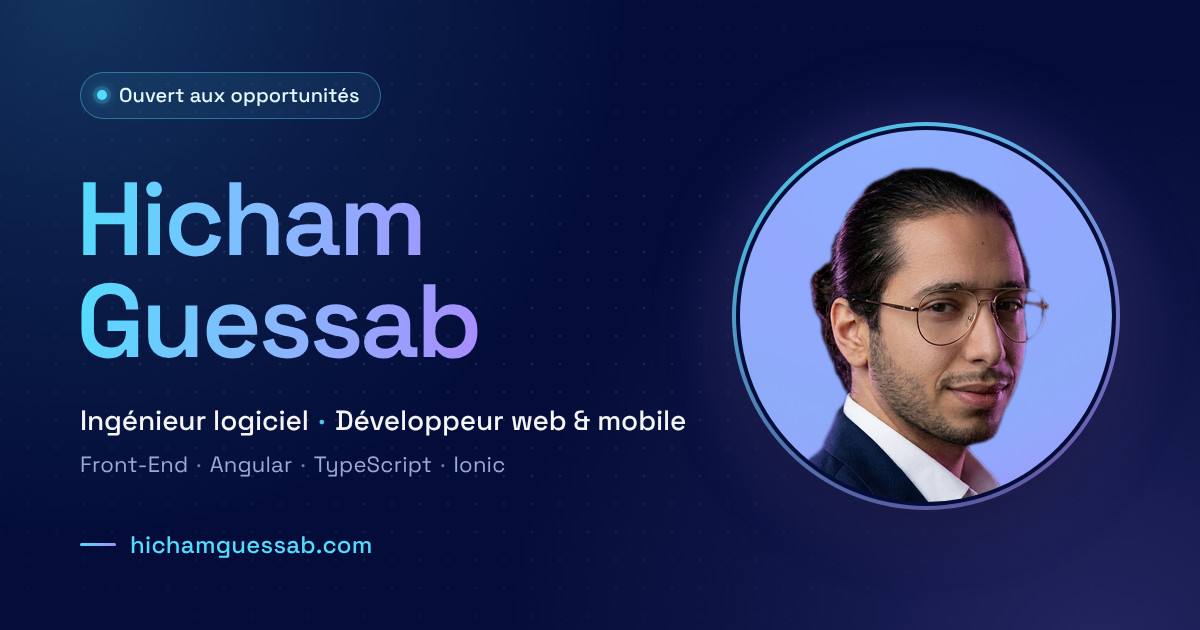
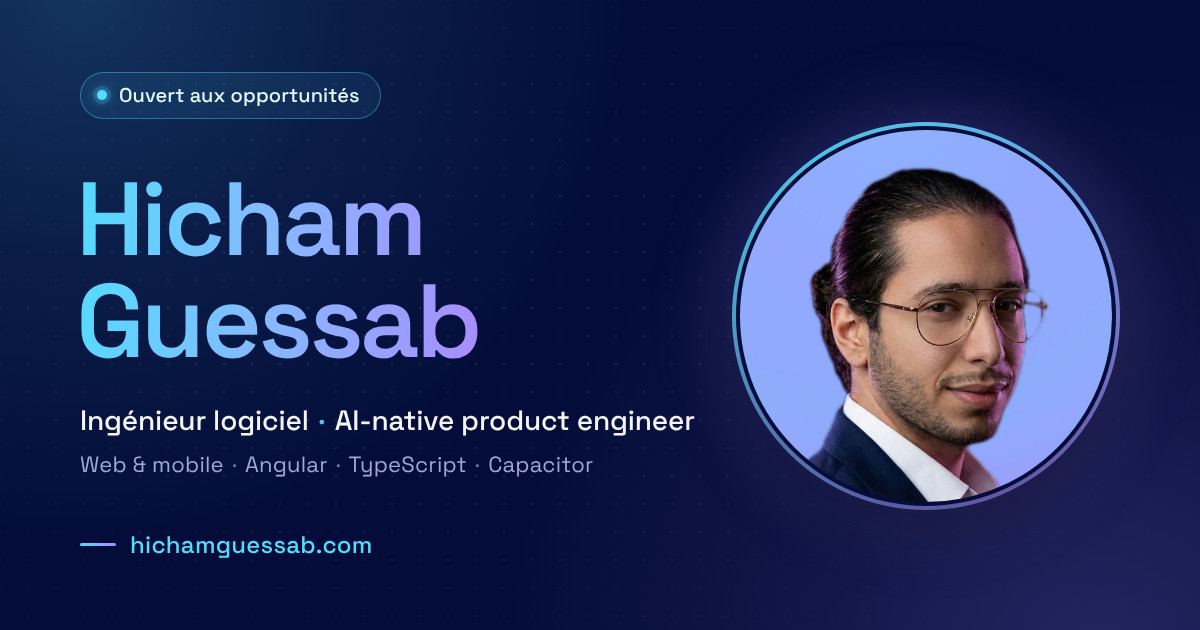
feat(profil): present the AI-native product engineer positioning
Les titres sous le nom deviennent « Ingénieur logiciel » et « AI-native
product engineer », chacun suivi de sa définition (liste de
définitions), à la place de l'accroche « Spécialisé Front-End… » :
- Ingénieur logiciel : concevoir et maintenir des applications web et
  mobile robustes, avec Angular et TypeScript ;
- AI-native product engineer : penser produit autant que code, avec l'IA
  au cœur de la façon de travailler, de l'idée à la mise en production.

- héros : titres définis empilés, retours à la ligne équilibrés ; rythme
  resserré (actions, chiffres clés) pour garder les chiffres au-dessus
  de la ligne de flottaison en 1366 × 768.
- mode compact : les deux titres côte à côte sous la photo, chacun avec
  sa définition.
- pied de page, <title>, description, Open Graph, JSON-LD (jobTitle en
  tableau) et manifeste alignés.
- carte de partage : sous-titre et ligne de stack mis à jour ; og.html
  reproduit désormais le cadrage serré du portrait (object-view-box) et
  la carte est régénérée depuis la source.

Claude-Session: https://claude.ai/code/session_01JhnqgDeprVQXKRMAVUT24v

diff --git a/src/app/components/profile-section/profile-section.component.html b/src/app/components/profile-section/profile-section.component.html
@@ -1,7 +1,10 @@
 @if (layout() === 'compact') {
   <!-- Layout compact « pont de commandement » : photo dans un liseré dégradé,
-       pile serrée des titres à sa droite, accroche intégrale dessous.
-       Le reveal est porté par la cellule du pont, pas par ce contenu. -->
+       salutation et nom à sa droite, puis les deux titres côte à côte,
+       chacun avec sa définition — resserrés sous xl, où les colonnes
+       étroites passent les définitions sur trois lignes (les tuiles
+       projets gardent leur hauteur). Le reveal est porté par la cellule
+       du pont, pas par ce contenu. -->
   <div class="flex min-h-0 flex-col gap-3 2xl:gap-4">
     <div class="flex items-center gap-4 2xl:gap-5">
       <div
@@ -10,7 +13,7 @@
         <app-portrait
           sizes="96px"
           [imgClass]="
-            'h-20 w-20 rounded-xl object-cover transition-all duration-500 2xl:h-24 2xl:w-24' +
+            'h-16 w-16 rounded-xl object-cover transition-all duration-500 xl:h-20 xl:w-20 2xl:h-24 2xl:w-24' +
             (imageLoaded() ? '' : ' blur-md')
           "
           (loaded)="imageLoaded.set(true)"
@@ -23,19 +26,32 @@
         >
           {{ profile.name }}
         </h1>
-        <p class="font-display text-base 2xl:text-lg">{{ profile.role }}</p>
       </div>
     </div>
     <!-- La ponctuation doit rester collée aux <strong> : pas de reformatage. -->
-    <!-- prettier-ignore -->
-    <p class="max-w-prose text-[13px] leading-relaxed font-light text-white/85 2xl:text-sm">
-      Spécialisé <strong class="text-gradient">Front-End</strong>, je conçois et
-      maintiens des applications web et mobile avec Angular et TypeScript.
-      J’ai contribué à des <strong class="text-gradient">SaaS</strong> comme à
-      des sites vitrines, et je reste
-      <strong class="text-gradient">touche-à-tout</strong>&nbsp;: je m’adapte
-      vite à de nouvelles technologies.
-    </p>
+    <dl class="grid gap-x-6 gap-y-2 sm:grid-cols-2">
+      <div>
+        <dt class="font-display text-base text-wildSand 2xl:text-lg">
+          {{ profile.role }}
+        </dt>
+        <!-- prettier-ignore -->
+        <dd class="mt-0.5 text-[12px] leading-snug font-light text-white/85 xl:text-[13px] xl:leading-relaxed 2xl:text-sm">
+          Je conçois et maintiens des applications web et mobile robustes, avec
+          Angular et TypeScript.
+        </dd>
+      </div>
+      <div>
+        <dt class="font-display text-base text-wildSand 2xl:text-lg">
+          {{ profile.specialty }}
+        </dt>
+        <!-- prettier-ignore -->
+        <dd class="mt-0.5 text-[12px] leading-snug font-light text-white/85 xl:text-[13px] xl:leading-relaxed 2xl:text-sm">
+          Je pense <strong class="text-gradient">produit</strong> autant que
+          code, avec l’<strong class="text-gradient">IA</strong> au cœur de ma
+          façon de travailler, de l’idée à la mise en production.
+        </dd>
+      </div>
+    </dl>
   </div>
 } @else {
   <section
@@ -47,7 +63,7 @@
     <div
       class="mx-auto grid max-w-6xl items-center gap-7 px-5 pt-7 pb-16 sm:gap-8 sm:px-8 md:pt-12 lg:min-h-[calc(100svh-4rem)] lg:grid-cols-[minmax(0,1.2fr)_minmax(0,0.8fr)] lg:gap-16 lg:py-16"
     >
-      <!-- Colonne texte : disponibilité, identité, accroche, actions. -->
+      <!-- Colonne texte : disponibilité, identité, titres définis, actions. -->
       <div class="hero-enter flex flex-col items-start">
         <p
           class="inline-flex items-center gap-2.5 rounded-full border border-lightBlue/25 bg-lightBlue/8 px-3.5 py-1.5 text-sm text-lightBlue"
@@ -70,29 +86,40 @@
         >
           {{ profile.name }}
         </h1>
-        <p class="mt-4 font-display text-xl text-wildSand md:mt-5 md:text-2xl">
-          {{ profile.role }}
-          <span class="text-white/30" aria-hidden="true">/</span>
-          &ngsp;
-          <span class="text-white/70">{{ profile.specialty }}</span>
-        </p>
 
-        <!-- La ponctuation doit rester collée aux <strong> : pas de reformatage. -->
-        <!-- prettier-ignore -->
-        <p class="mt-5 max-w-xl text-base leading-relaxed text-pretty text-white/70 sm:text-lg md:mt-6">
-          Spécialisé <strong class="text-gradient font-medium">Front-End</strong>,
-          je conçois et maintiens des applications web et mobile avec
-          <strong class="font-medium text-wildSand">Angular</strong> et
-          <strong class="font-medium text-wildSand">TypeScript</strong>. J’ai
-          contribué à des <strong class="font-medium text-wildSand">SaaS</strong>
-          comme à des sites vitrines, et je reste
-          <strong class="text-gradient font-medium">touche-à-tout</strong>&nbsp;:
-          je m’adapte vite à de nouvelles technologies.
-        </p>
+        <!-- Les deux titres, chacun suivi de sa définition. La ponctuation
+             doit rester collée aux <strong> : pas de reformatage. -->
+        <dl class="mt-4 grid max-w-xl gap-4 md:mt-5">
+          <div>
+            <dt
+              class="font-display text-xl leading-tight text-wildSand md:text-2xl md:leading-tight"
+            >
+              {{ profile.role }}
+            </dt>
+            <!-- prettier-ignore -->
+            <dd class="mt-1 text-base leading-relaxed text-balance text-white/70">
+              Je conçois et maintiens des applications web et mobile robustes,
+              avec <strong class="font-medium text-wildSand">Angular</strong> et
+              <strong class="font-medium text-wildSand">TypeScript</strong>.
+            </dd>
+          </div>
+          <div>
+            <dt
+              class="font-display text-xl leading-tight text-wildSand md:text-2xl md:leading-tight"
+            >
+              {{ profile.specialty }}
+            </dt>
+            <!-- prettier-ignore -->
+            <dd class="mt-1 text-base leading-relaxed text-balance text-white/70">
+              Je pense <strong class="text-gradient font-medium">produit</strong>
+              autant que code, avec l’<strong class="text-gradient font-medium">IA</strong>
+              au cœur de ma façon de travailler, de l’idée à la mise en
+              production.
+            </dd>
+          </div>
+        </dl>
 
-        <div
-          class="mt-8 flex flex-wrap items-center gap-3 md:mt-9 print:hidden"
-        >
+        <div class="mt-8 flex flex-wrap items-center gap-3 print:hidden">
           <a href="#projets" class="btn btn-primary btn-lg">
             Voir mes projets
             <app-icon name="arrow-down" class="size-4" />
@@ -117,7 +144,7 @@
         </div>
 
         <dl
-          class="mt-12 grid w-full max-w-xl grid-cols-3 gap-4 border-t border-white/8 pt-7"
+          class="mt-10 grid w-full max-w-xl grid-cols-3 gap-4 border-t border-white/8 pt-7"
         >
           @for (figure of figures; track figure.label) {
             <div class="flex flex-col gap-1">

diff --git a/src/index.html b/src/index.html
@@ -3,7 +3,7 @@
   <head>
     <meta charset="utf-8" />
     <title>
-      Hicham Guessab — Ingénieur logiciel, développeur web et mobile
+      Hicham Guessab — Ingénieur logiciel, AI-native product engineer
     </title>
     <base href="/" />
     <meta
@@ -12,7 +12,7 @@
     />
     <meta
       name="description"
-      content="Hicham Guessab, ingénieur logiciel et développeur web et mobile spécialisé Front-End : Angular, TypeScript, Ionic, Capacitor. Projets, parcours et contact."
+      content="Hicham Guessab, ingénieur logiciel et AI-native product engineer : applications web et mobile (Angular, TypeScript), l’IA au cœur du processus."
     />
     <meta name="author" content="Hicham Guessab" />
     <meta name="theme-color" content="#040D39" />
@@ -50,11 +50,11 @@
     <meta property="og:site_name" content="Hicham Guessab" />
     <meta
       property="og:title"
-      content="Hicham Guessab — Ingénieur logiciel, développeur web et mobile"
+      content="Hicham Guessab — Ingénieur logiciel, AI-native product engineer"
     />
     <meta
       property="og:description"
-      content="Développeur web et mobile spécialisé Front-End : Angular, TypeScript, Ionic et Capacitor. Ouvert aux opportunités."
+      content="Ingénieur logiciel et AI-native product engineer : applications web et mobile avec Angular et TypeScript, l’IA au cœur du processus. Ouvert aux opportunités."
     />
     <meta property="og:url" content="https://hichamguessab.com/" />
     <meta property="og:locale" content="fr_FR" />
@@ -67,7 +67,7 @@
     <meta property="og:image:height" content="630" />
     <meta
       property="og:image:alt"
-      content="Hicham Guessab, ingénieur logiciel et développeur web et mobile"
+      content="Hicham Guessab, ingénieur logiciel et AI-native product engineer"
     />
     <meta property="profile:first_name" content="Hicham" />
     <meta property="profile:last_name" content="Guessab" />
@@ -86,8 +86,8 @@
             "familyName": "Guessab",
             "url": "https://hichamguessab.com/",
             "image": "https://hichamguessab.com/assets/images/portrait-768.jpg",
-            "jobTitle": "Ingénieur logiciel",
-            "description": "Développeur web et mobile spécialisé Front-End (Angular, TypeScript).",
+            "jobTitle": ["Ingénieur logiciel", "AI-native product engineer"],
+            "description": "Ingénieur logiciel et AI-native product engineer : applications web et mobile (Angular, TypeScript), l’IA au cœur du processus.",
             "email": "mailto:contact@hichamguessab.com",
             "worksFor": {
               "@type": "Organization",

diff --git a/design/og/og.html b/design/og/og.html
@@ -247,6 +247,9 @@
         height: 372px;
         border-radius: 50%;
         object-fit: cover;
+        /* Cadrage serré sur le visage (portrait 768 px) : zoom ×1,26,
+           visage remonté de 20 px. Rendu Chromium uniquement (Playwright). */
+        object-view-box: inset(112px 81px 47px 78px);
       }
     </style>
   </head>
@@ -270,16 +273,16 @@
             <p class="subtitle">
               Ingénieur logiciel
               <span class="sep">·</span>
-              Développeur web &amp; mobile
+              AI-native product engineer
             </p>
             <p class="stack">
-              Front-End
+              Web &amp; mobile
               <span class="sep">·</span>
               Angular
               <span class="sep">·</span>
               TypeScript
               <span class="sep">·</span>
-              Ionic
+              Capacitor
             </p>
           </div>
           <div class="domain">hichamguessab.com</div>

diff --git a/src/app/components/profile-section/profile-section.component.ts b/src/app/components/profile-section/profile-section.component.ts
@@ -17,11 +17,11 @@ import { PortraitComponent } from '../portrait/portrait.component';
 
 /**
  * Mise en page de la section profil :
- * - « hero » : ouverture de la page (accroche, appels à l'action, chiffres
- *   clés, portrait en orbite) ;
+ * - « hero » : ouverture de la page (les deux titres et leur définition,
+ *   appels à l'action, chiffres clés, portrait en orbite) ;
  * - « compact » : cellule identité du pont de commandement — photo dans un
- *   liseré dégradé, titres à sa droite, accroche intégrale dessous (le cadre
- *   en tirets appartient à l'écran, voir ScreenFrameComponent).
+ *   liseré dégradé, nom à sa droite, titres définis côte à côte dessous (le
+ *   cadre en tirets appartient à l'écran, voir ScreenFrameComponent).
  */
 export type ProfileLayout = 'hero' | 'compact';
 

diff --git a/src/app/services/profile.service.ts b/src/app/services/profile.service.ts
@@ -13,8 +13,9 @@ import { formatDuration, periodMonths } from '../data/period';
 export class ProfileService {
   readonly name = 'Hicham Guessab';
   readonly greeting = 'Hello ! Je suis';
+  /** Les deux titres affichés sous le nom, chacun défini dans le héros. */
   readonly role = 'Ingénieur logiciel';
-  readonly specialty = 'Développeur web et mobile';
+  readonly specialty = 'AI-native product engineer';
   readonly availability = 'Ouvert aux opportunités';
   readonly email = 'contact@hichamguessab.com';
 

diff --git a/README.md b/README.md
@@ -1,8 +1,8 @@
 # Portfolio — Hicham Guessab
 
-Portfolio personnel de Hicham Guessab, ingénieur logiciel et développeur web
-et mobile spécialisé Front-End. Application Angular d'une seule page, en
-français, pré-rendue en HTML statique et déployée sur GitHub Pages.
+Portfolio personnel de Hicham Guessab, ingénieur logiciel et AI-native
+product engineer. Application Angular d'une seule page, en français,
+pré-rendue en HTML statique et déployée sur GitHub Pages.
 
 **En ligne : [hichamguessab.com](https://hichamguessab.com/)**
 
@@ -18,8 +18,9 @@ français, pré-rendue en HTML statique et déployée sur GitHub Pages.
 Une page qui défile, pensée pour être lue en trente secondes par un
 recruteur :
 
-1. **Profil** — disponibilité, identité, accroche, appels à l'action
-   (projets, contact) et chiffres clés calculés depuis les données.
+1. **Profil** — disponibilité, identité, les deux titres et leur
+   définition, appels à l'action (projets, contact) et chiffres clés
+   calculés depuis les données.
 2. **Expérience** — frise chronologique ; l'alternance puis le CDI chez CBA
    forment une seule carte pour rendre la progression lisible.
 3. **Projets** — quatre projets mis en avant, puis une liste d'archive.
